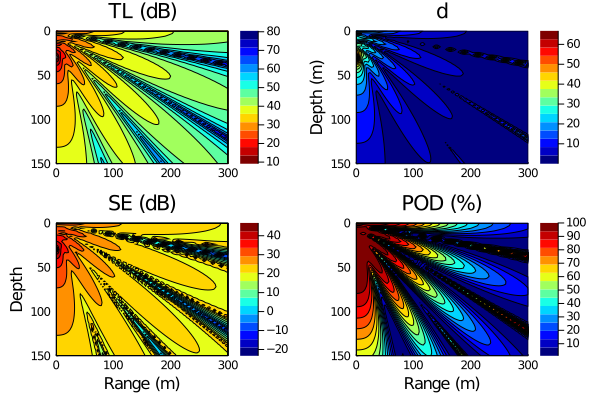
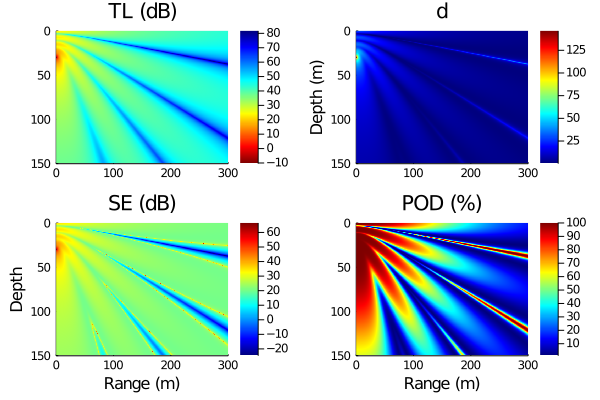
Updated heatmaps and halfway through `struct`ing

diff --git a/README.md b/README.md
@@ -44,8 +44,6 @@ For the single-reflection Lloyd's Mirror interference effect, the same ocean and
 
 ![](img/SonarEqs_LloydsMirror.png)
 
-Might change the `contour` plots to `pcolor` plots.
-
 ## References
 > <a name="JensenEtAl">[1]</a> Jensen, F. B., Kuperman, W. A., Porter, M. B., & Schmidt, H. (2011). Computational ocean acoustics. Springer Science & Business Media.
 
